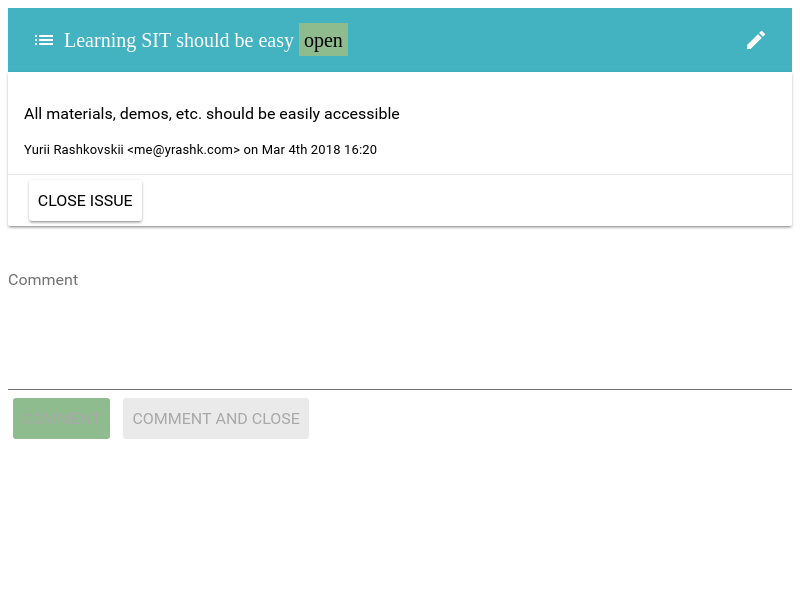
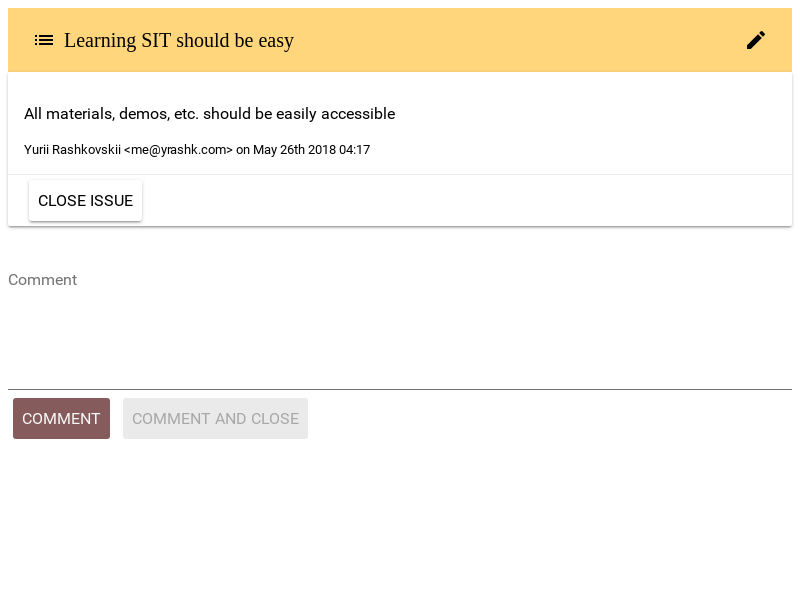
Problem: issue-tracking style no longer matches the brand
Solution: update it to match

diff --git a/web/src/spinner.html b/web/src/spinner.html
@@ -5,59 +5,136 @@
             :host {
                 display: block;
             }
-            @-webkit-keyframes rotating /* Safari and Chrome */ {
-                from {
-                    -webkit-transform: rotate(0deg);
-                    -o-transform: rotate(0deg);
-                    transform: rotate(0deg);
-                    transform-origin: center;
-                }
-                to {
-                    -webkit-transform: rotate(360deg);
-                    -o-transform: rotate(360deg);
-                    transform: rotate(360deg);
-                    transform-origin: center;
-                }
-            }
-            @keyframes rotating {
-                from {
-                    -ms-transform: rotate(0deg);
-                    -moz-transform: rotate(0deg);
-                    -webkit-transform: rotate(0deg);
-                    -o-transform: rotate(0deg);
-                    transform: rotate(0deg);
-                    transform-origin: center;
 
-                }
-                to {
-                    -ms-transform: rotate(360deg);
-                    -moz-transform: rotate(360deg);
-                    -webkit-transform: rotate(360deg);
-                    -o-transform: rotate(360deg);
-                    transform: rotate(360deg);
-                    transform-origin: center;
-                }
+            .pulsate path {
+                stroke: #2980b9;
+                -webkit-animation: pulsate 1s ease-out;
+                -webkit-animation-iteration-count: infinite;
+                -moz-animation: pulsate 1s ease-out;
+                -moz-animation-iteration-count: infinite;
+                -ms-animation: pulsate 1s ease-out;
+                -ms-animation-iteration-count: infinite;
+                animation: pulsate 1s ease-out;
+                animation-iteration-count: infinite;
             }
-            .spin {
-                -webkit-animation: rotating 14s linear infinite;
-                -moz-animation: rotating 1s linear infinite;
-                -ms-animation: rotating 1s linear infinite;
-                -o-animation: rotating 1s linear infinite;
-                animation: rotating 1s linear infinite;
+
+            @-webkit-keyframes pulsate {
+                0%    { opacity:0.4; stroke-width: 3; }
+                50%   { opacity:1.0; stroke-width: 5; }
+                100%  { opacity:0.4; stroke-width: 3; }
+            }
+
+            @-moz-keyframes pulsate {
+                0%    { opacity:0.4; stroke-width: 3; }
+                50%   { opacity:1.0; stroke-width: 5; }
+                100%  { opacity:0.4; stroke-width: 3; }
+            }
+
+            @-ms-keyframes pulsate {
+                0%    { opacity:0.4; stroke-width: 3; }
+                50%   { opacity:1.0; stroke-width: 5; }
+                100%  { opacity:0.4; stroke-width: 3; }
+            }
+
+            @keyframes pulsate {
+                0%    { opacity:0.4; stroke-width: 3; }
+                50%   { opacity:1.0; stroke-width: 5; }
+                100%  { opacity:0.4; stroke-width: 3; }
             }
         </style>
-        <svg class="spin" width="50" height="50" viewBox="0 0 177.61257 177.61256" >
-            <g id="layer1"
-               transform="translate(-118.2661,-79.359196)">
-                <g id="g1664"
-                   transform="matrix(5.2934299,0,0,5.2934299,926.765,633.24869)">
-                    <g transform="matrix(0.35277777,0,0,-0.35277777,-126.01797,-82.889473)"
-                       id="g36">
-                        <path
-                                id="path38"
-                                style="fill:#43b3c2;fill-opacity:1;fill-rule:nonzero;stroke:none"
-                                d="M 0,0 V 28.182 L 14.091,14.091 Z m -28.182,-1.761 c -8.754,0 -15.851,7.097 -15.851,15.852 0,8.755 7.097,15.852 15.851,15.852 8.755,0 15.853,-7.097 15.853,-15.852 0,-8.755 -7.098,-15.852 -15.853,-15.852 m 0,-26.42 -14.089,14.09 h 28.18 z m 0,84.544 14.091,-14.091 h -28.18 z M -56.362,0 -70.453,14.091 -56.362,28.182 Z m 49.317,35.227 v 26.42 h -42.272 v -26.42 h -26.42 V -7.045 h 26.42 v -26.42 h 42.272 v 26.42 h 26.42 v 42.272 z" >
-                        </path>
+
+        <svg class="pulsate" height="100px" width="100px" viewBox="0 0 30 30">
+            <linearGradient
+                    y2="371.03366"
+                    x2="686.34814"
+                    y1="369.96457"
+                    x1="488.30142"
+                    gradientTransform="translate(-2110.7169,1378.2032)"
+                    gradientUnits="userSpaceOnUse"
+                    id="linearGradient27014-343-396-92-65"
+                    xlink:href="#linearGradient7321-965-179-784-427" />
+            <linearGradient
+                    id="linearGradient7321-965-179-784-427">
+                <stop
+                        style="stop-color:#000000;stop-opacity:1;;opacity:1"
+                        offset="0"
+                        id="stop38104" />
+                <stop
+                        style="stop-color:#000000;stop-opacity:0;;opacity:1"
+                        offset="1"
+                        id="stop38106" />
+            </linearGradient>
+            <linearGradient
+                    xlink:href="#linearGradient7321-808"
+                    id="linearGradient15910-573"
+                    gradientUnits="userSpaceOnUse"
+                    gradientTransform="translate(-2110.7169,1378.2032)"
+                    x1="488.30142"
+                    y1="369.96457"
+                    x2="686.34814"
+                    y2="371.03366" />
+            <linearGradient
+                    id="linearGradient7321-808">
+                <stop
+                        style="stop-color:#ffffff;stop-opacity:1;;opacity:1"
+                        offset="0"
+                        id="stop26494" />
+                <stop
+                        style="stop-color:#ffffff;stop-opacity:0;;opacity:1"
+                        offset="1"
+                        id="stop26496" />
+            </linearGradient>
+            <linearGradient
+                    xlink:href="#linearGradient7321"
+                    id="linearGradient13655"
+                    gradientUnits="userSpaceOnUse"
+                    x1="488.30142"
+                    y1="369.96457"
+                    x2="686.34814"
+                    y2="371.03366"
+                    gradientTransform="translate(-2110.7169,1378.2032)" />
+            <linearGradient
+                    id="linearGradient7321">
+                <stop
+                        style="stop-color:#ffd67c;stop-opacity:1;"
+                        offset="0"
+                        id="stop7317" />
+                <stop
+                        style="stop-color:#ffd67c;stop-opacity:0;"
+                        offset="1"
+                        id="stop7319" />
+            </linearGradient>
+            <linearGradient
+                    y2="371.03366"
+                    x2="686.34814"
+                    y1="369.96457"
+                    x1="488.30142"
+                    gradientTransform="translate(-2110.7169,1378.2032)"
+                    gradientUnits="userSpaceOnUse"
+                    id="linearGradient40627"
+                    xlink:href="#linearGradient7321" />
+            <linearGradient
+                    y2="371.03366"
+                    x2="686.34814"
+                    y1="369.96457"
+                    x1="488.30142"
+                    gradientTransform="translate(-2110.7169,1378.2032)"
+                    gradientUnits="userSpaceOnUse"
+                    id="linearGradient40627-9"
+                    xlink:href="#linearGradient7321" />
+
+            <g transform="translate(-150.89613,97.645767)" id="layer1">
+                <g transform="translate(1.2415772e-5,32.072351)" id="g1125">
+                    <g id="logo-color" transform="matrix(0.16022096,0,0,0.16022096,418.24932,-402.09665)">
+                        <path style="fill:url(#linearGradient13655);fill-opacity:1;stroke:none;stroke-width:0.8661347;stroke-miterlimit:4;stroke-dasharray:none;stroke-opacity:1"
+                                d="m -1668.6531,1700.0181 c 33.3333,0 66.6667,0 100,0 0,33.3333 0,66.6666 0,100 -33.3333,0 -66.6667,0 -100,0 0,-33.3334 0,-66.6667 0,-100 z"
+                                id="rect7286-0-0-7-5-3-7" />
+                        <path id="rect7313-0-5-8-4-3-1"
+                                d="m -1662.5556,1706.1157 h 87.8049 v 87.8049 h -87.8049 z"
+                                style="fill:none;fill-opacity:1;stroke:#0a0a0a;stroke-width:2.195122;stroke-miterlimit:4;stroke-dasharray:none;stroke-opacity:1" />
+                        <path style="color:#000000;font-style:normal;font-variant:normal;font-weight:normal;font-stretch:normal;font-size:medium;line-height:normal;font-family:sans-serif;font-variant-ligatures:normal;font-variant-position:normal;font-variant-caps:normal;font-variant-numeric:normal;font-variant-alternates:normal;font-feature-settings:normal;text-indent:0;text-align:start;text-decoration:none;text-decoration-line:none;text-decoration-style:solid;text-decoration-color:#000000;letter-spacing:normal;word-spacing:normal;text-transform:none;writing-mode:lr-tb;direction:ltr;text-orientation:mixed;dominant-baseline:auto;baseline-shift:baseline;text-anchor:start;white-space:normal;shape-padding:0;clip-rule:nonzero;display:inline;overflow:visible;visibility:visible;opacity:1;isolation:auto;mix-blend-mode:normal;color-interpolation:sRGB;color-interpolation-filters:linearRGB;solid-color:#000000;solid-opacity:1;vector-effect:none;fill:#000000;fill-opacity:1;fill-rule:nonzero;stroke:none;stroke-width:7.39432049;stroke-linecap:butt;stroke-linejoin:miter;stroke-miterlimit:4;stroke-dasharray:none;stroke-dashoffset:0;stroke-opacity:1;color-rendering:auto;image-rendering:auto;shape-rendering:auto;text-rendering:auto;enable-background:accumulate"
+                                d="m -1636.0725,1734.3432 c -4.0253,-0.01 -8.049,1.5044 -11.0963,4.5516 -6.0946,6.0948 -6.0594,16.0962 0.045,22.2009 6.105,6.105 15.9887,5.9964 22.1435,0.1016 l 11.6869,-11.1931 v 0 0 0 0 l 6.0821,-5.825 c 3.3931,-3.2497 8.507,-3.3036 11.8005,-0.01 3.294,3.2939 3.2991,8.4895 0.045,11.7432 -1.6269,1.6269 -3.7393,2.4394 -5.8568,2.4331 -2.019,-0.01 -4.0373,-0.7654 -5.6488,-2.2629 l -4.5436,4.2346 -0.8247,0.8719 c 3.0404,2.9885 7.0232,4.494 11.006,4.504 4.0253,0.01 8.049,-1.5042 11.0964,-4.5515 6.0946,-6.0947 6.0594,-16.0963 -0.045,-22.2008 -6.105,-6.1051 -15.9886,-5.9966 -22.1435,-0.1017 l -11.6869,11.193 v 0 0 0 0 l -6.082,5.8249 c -3.3931,3.2498 -8.507,3.3037 -11.8005,0.01 -3.294,-3.2939 -3.2992,-8.4896 -0.045,-11.7433 1.6269,-1.6269 3.7393,-2.4394 5.8567,-2.4331 2.019,0.01 4.0373,0.7654 5.6489,2.2629 l 4.5435,-4.2346 0.8248,-0.8718 c -3.0404,-2.9886 -7.0232,-4.4941 -11.0061,-4.5041 z"
+                                id="path12547-2-6-2" />
                     </g>
                 </g>
             </g>

diff --git a/web/documentation/screenshots.js b/web/documentation/screenshots.js
@@ -6,7 +6,8 @@ var path = require('path'),
     puppeteer = require('puppeteer'),
     tmpdir = require('unique-temp-dir'),
     process = require('process'),
-    which = require('which');
+    which = require('which'),
+    fs = require('fs');
 
 function launch() {
         // @yrashk: I run NixOS, so bundled chrome is not going to cut it for
@@ -27,6 +28,8 @@ function available(web) {
 async function empty_screen() {
         var temp = tmpdir({create: true});
         child_process.execSync("sit init", {cwd: temp});
+        fs.mkdirSync(path.resolve(temp, ".sit/modules"));
+        child_process.execSync("ln -s " + path.resolve(__dirname, "../..") + " " + path.resolve(temp, ".sit/modules/issue-tracking"), {cwd: temp});
         var web = child_process.spawn("sit-web", ["127.0.0.1:10801"], {cwd: temp});
 
         await available(web);
@@ -43,6 +46,8 @@ async function empty_screen() {
 async function new_issue() {
         var temp = tmpdir({create: true});
         child_process.execSync("sit init", {cwd: temp});
+        fs.mkdirSync(path.resolve(temp, ".sit/modules"));
+        child_process.execSync("ln -s " + path.resolve(__dirname, "../..") + " " + path.resolve(temp, ".sit/modules/issue-tracking"), {cwd: temp});
         var web = child_process.spawn("sit-web", ["127.0.0.1:10802"], {cwd: temp});
 
         await available(web);
@@ -88,6 +93,8 @@ async function new_issue() {
 async function search() {
         var temp = tmpdir({create: true});
         child_process.execSync("sit init", {cwd: temp});
+        fs.mkdirSync(path.resolve(temp, ".sit/modules"));
+        child_process.execSync("ln -s " + path.resolve(__dirname, "../..") + " " + path.resolve(temp, ".sit/modules/issue-tracking"), {cwd: temp});
         var web = child_process.spawn("sit-web", ["127.0.0.1:10803"], {cwd: temp});
 
         await available(web);

diff --git a/web/src/issue/issue-style.html b/web/src/issue/issue-style.html
@@ -7,7 +7,7 @@
             :host { display: block; }
             app-header {
                 background-color: var(--sit-header-color);
-                color: #fff;
+                color: var(--sit-header-text-color);
             }
 
             paper-card {
@@ -20,9 +20,7 @@
             }
 
             .open {
-                background-color: darkseagreen;
-                color: black;
-                padding: 4pt;
+                display: none;
             }
 
             .closed {
@@ -32,12 +30,12 @@
             }
 
             #reopen {
-                background-color: darkseagreen;
-                color: whitesmoke;
+                background-color: var(--sit-primary-color);
+                color: #000;
             }
 
             paper-button#save {
-                background-color: darkseagreen;
+                background-color: var(--sit-primary-color);
             }
 
         </style>

diff --git a/web/src/dashboard-page/issue.html b/web/src/dashboard-page/issue.html
@@ -14,10 +14,9 @@
 
         <paper-card id="card" elevation="0">
                  <span class="layout horizontal center-aligned title">
-                    <a class="flex-4" id="link" href="/issue/[[issue.id]]">[[ issue.summary ]]</a>
-                    <span class$="[[ issue.state ]] self-end">[[ issue.state ]]</span>
+                    <a class$="flex-4 [[ issue.state ]]" id="link" href="/issue/[[issue.id]]">[[ issue.summary ]]</a>
                     <template is="dom-if" if="[[ isMergeRequest ]]">
-                        <div class="mr layout self-end">MR</div>
+                            <iron-icon title="Merge Request" id="merge-request" icon="code" alt="merge-request"></iron-icon>
                     </template>
                     <template is="dom-if" if="[[ hasComments ]]">
                             <div class="self-end">

diff --git a/web/src/dashboard-page/issue-style.html b/web/src/dashboard-page/issue-style.html
@@ -28,29 +28,17 @@
            }
 
 
-            .open {
-                background-color: darkseagreen;
-                padding: 4pt;
-                opacity: 0.5;
-            }
-
-            .closed {
-                background-color: #0e2231;
-                padding: 4pt;
-                color: white;
-                opacity: 0.5;
+            a.closed {
+                text-decoration: line-through var(--sit-light-accent-color) !important;
             }
 
 
             paper-badge {
-                --paper-badge-background: var(--paper-light-blue-100);
+                --paper-badge-background: var(--sit-dark-shades-color);
            }
 
             .mr {
                 padding: 4pt;
-                background-color: #0b97c4;
-                color: white;
-                opacity: 0.5;
             }
 
         </style>

diff --git a/web/src/styles.html b/web/src/styles.html
@@ -1,7 +1,13 @@
 <module id="sit-app-style">
     <style>
         html {
-            --sit-header-color: #43b3c2;
+            --sit-header-color: #ffd67c;
+            --sit-header-text-color: #000;
+            --sit-primary-color: #ffd67c;
+            --sit-dark-accent-color: #855b5c;
+            --sit-dark-shades-color: #2a3857;
+            --sit-light-accent-color: #857373;
+            --sit-light-shades-color: #f9f9f9;
         }
     </style>
 </module>

diff --git a/web/src/issue/new-comment-style.html b/web/src/issue/new-comment-style.html
@@ -3,7 +3,8 @@
         <style>
             :host { display: block; }
             #commentButton {
-                background-color: darkseagreen;
+                background-color: var(--sit-dark-accent-color);
+                color: #f9f9f9;
             }
         </style>
     </template>

diff --git a/web/src/dashboard-page/dashboard-page-style.html b/web/src/dashboard-page/dashboard-page-style.html
@@ -8,7 +8,7 @@
 
             app-header {
                 background-color: var(--sit-header-color);
-                color: #fff;
+                color: var(--sit-header-text-color);
             }
 
             sit-spinner {
